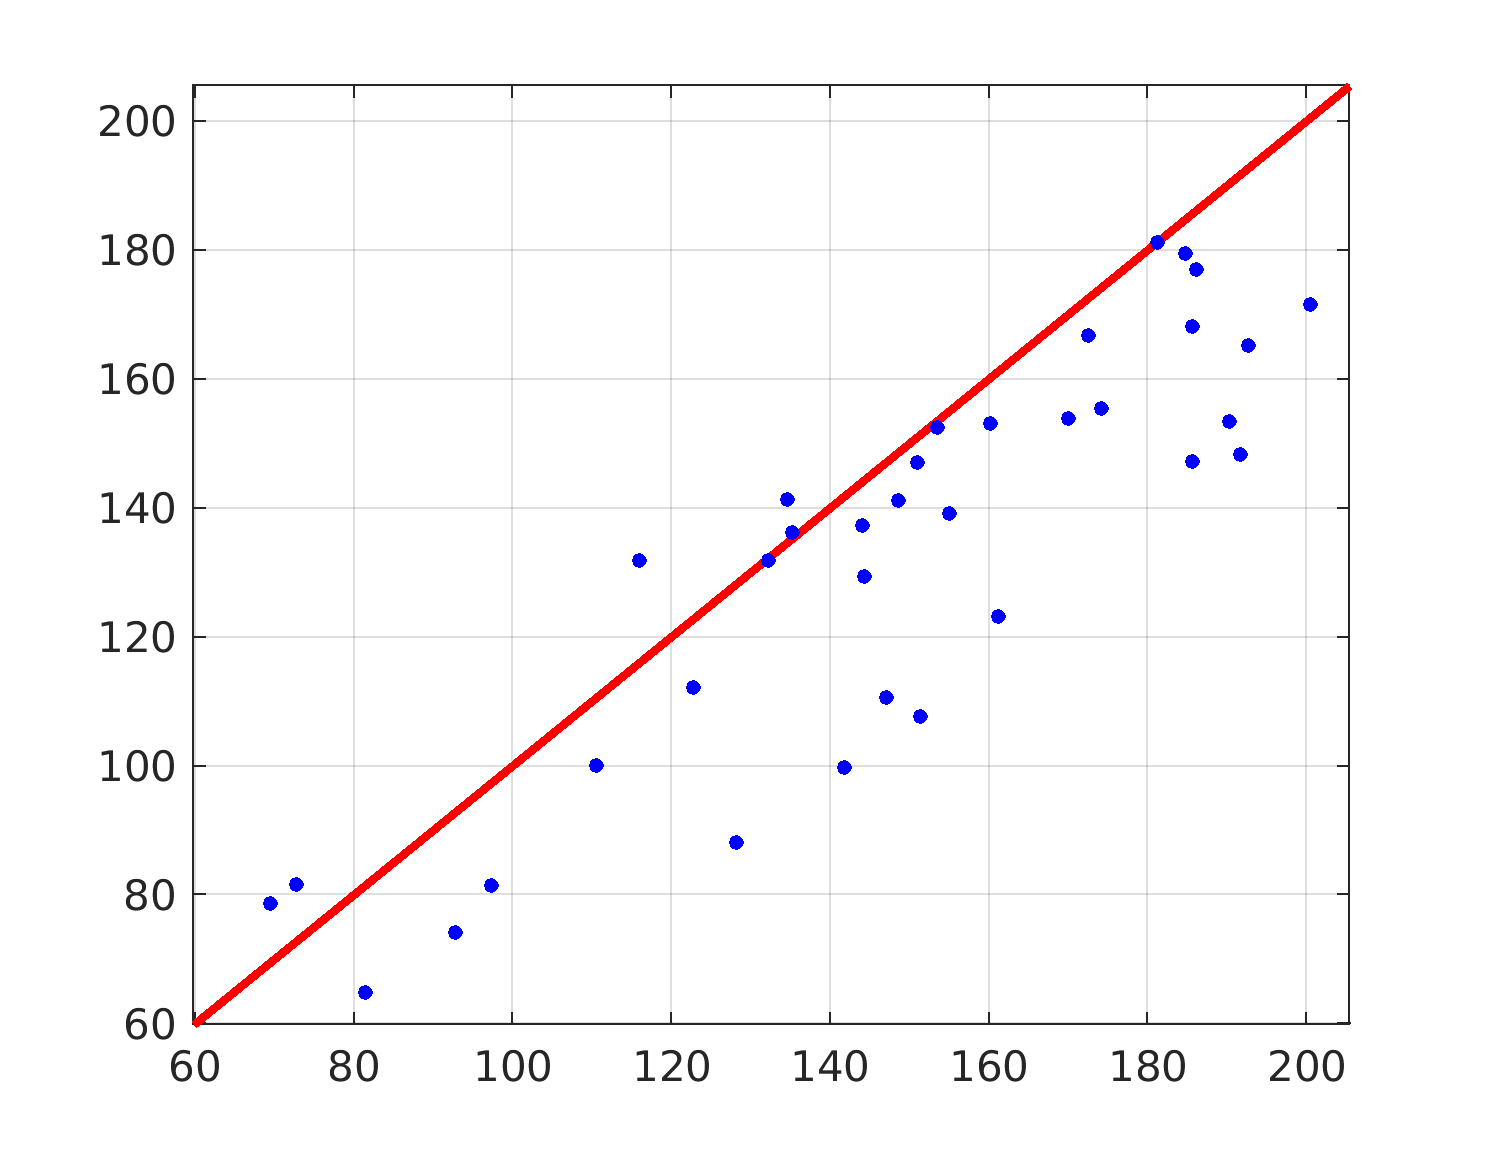
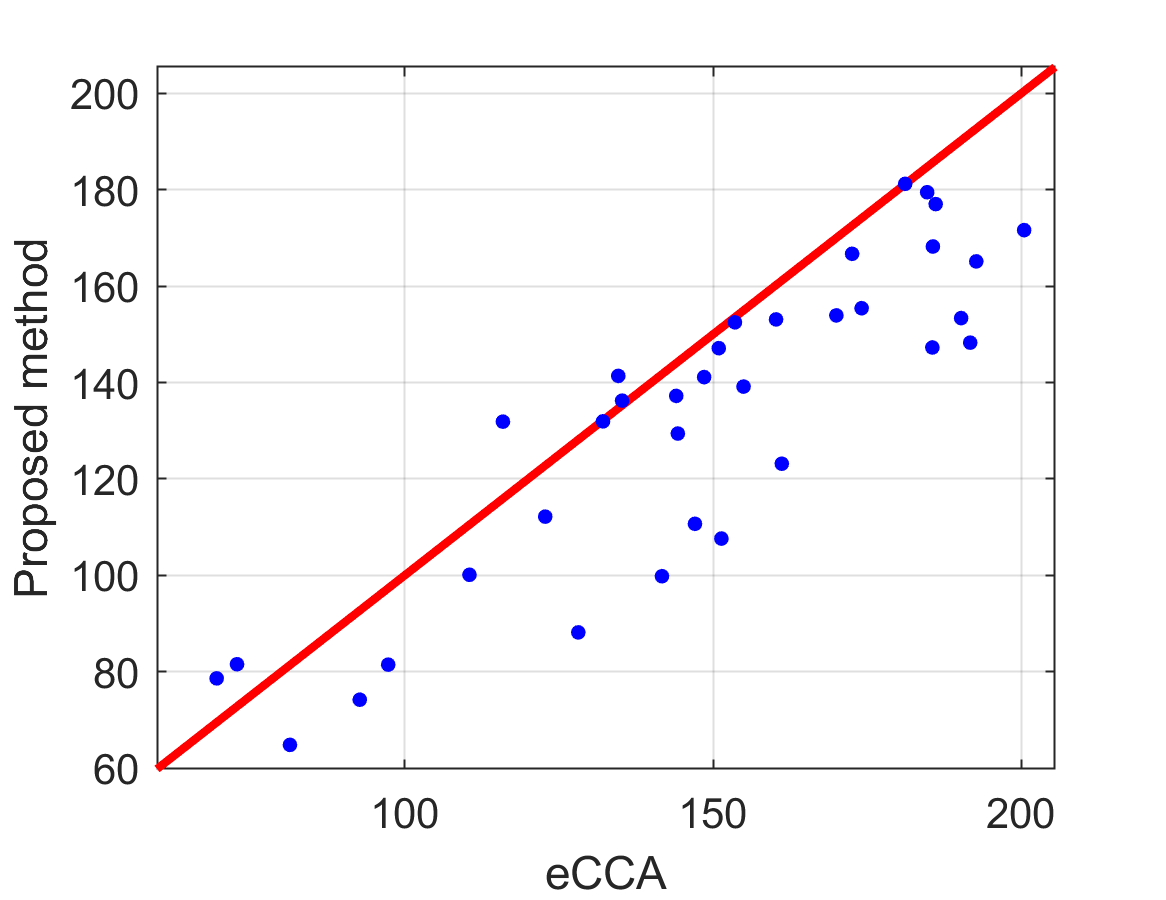
Add README

diff --git a/summary_ITR_Acc.m b/summary_ITR_Acc.m
@@ -196,6 +196,8 @@ for source_no=[4 8 12]
     axis([min(min([tmp1 tmp2]))-5 max(max([tmp1 tmp2]))+5 min(min([tmp1 tmp2]))-5 max(max([tmp1 tmp2]))+5])
     set(gca,'fontsize',10)
     grid on
+    xlabel(method_name{1})
+    ylabel(method_name{4})
     saveas(gcf,fullfile(figdir,['ITR_max_compare_14_' num2str(source_no) '.fig']))
     print(fullfile(figdir,['ITR_max_compare_14_' num2str(source_no) '.png']),'-dpng','-r300');
     close(gcf)
@@ -214,6 +216,8 @@ for source_no=[4 8 12]
     axis([min(min([tmp1 tmp2]))-5 max(max([tmp1 tmp2]))+5 min(min([tmp1 tmp2]))-5 max(max([tmp1 tmp2]))+5])
     set(gca,'fontsize',10)
     grid on
+    xlabel(method_name{5})
+    ylabel(method_name{4})
     saveas(gcf,fullfile(figdir,['ITR_max_compare_54_' num2str(source_no) '.fig']))
     print(fullfile(figdir,['ITR_max_compare_54_' num2str(source_no) '.png']),'-dpng','-r300');
     close(gcf)
@@ -232,6 +236,8 @@ for source_no=[4 8 12]
     axis([min(min([tmp1 tmp2]))-5 max(max([tmp1 tmp2]))+5 min(min([tmp1 tmp2]))-5 max(max([tmp1 tmp2]))+5])
     set(gca,'fontsize',10)
     grid on
+    xlabel(method_name{2})
+    ylabel(method_name{4})
     saveas(gcf,fullfile(figdir,['ITR_max_compare_24_' num2str(source_no) '.fig']))
     print(fullfile(figdir,['ITR_max_compare_24_' num2str(source_no) '.png']),'-dpng','-r300');
     close(gcf)
